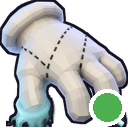
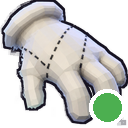
fix(brand): clear mist pixels inside the glove crop
Cyan mist overlapping the glove rectangle was enlarged with the glove and left a wrist trail on the toolbar icon.

diff --git a/docs/brand/scripts/pack-icons.py b/docs/brand/scripts/pack-icons.py
@@ -107,6 +107,45 @@ def glove_bbox(
     return (min_x, min_y, max_x, max_y)
 
 
+def is_cyan_mist(r: int, g: int, b: int, a: int) -> bool:
+    """Wrist mist is cyan. The bone glove is not.
+
+    Green and blue both sit above red. Cool glove highlights lift blue
+    while green stays near red, so those pixels stay. Dark tendrils and
+    faint specks keep the same bias with smaller gaps.
+    """
+    if a < 8 or g < r or b <= r:
+        return False
+    gap_g = g - r
+    gap_b = b - r
+    lum = (r + g + b) / 3
+    if gap_g >= 18 and gap_b >= 24:
+        return True
+    if lum < 130 and gap_g >= 6 and gap_b >= 10:
+        if gap_g / max(r, 1) >= 0.15 and gap_b / max(r, 1) >= 0.22:
+            return True
+    if lum < 55 and gap_g >= 4 and gap_b >= 6:
+        return True
+    return False
+
+
+def clear_mist_in_bbox(im: Image.Image, box: tuple[int, int, int, int]) -> Image.Image:
+    """Drop cyan mist that overlaps the glove rectangle.
+
+    The rectangle still contains mist wrapped around the cuff. Leaving
+    those pixels in the crop enlarges them into a wrist trail.
+    """
+    out = im.copy()
+    px = out.load()
+    x0, y0, x1, y1 = box
+    for y in range(y0, y1):
+        for x in range(x0, x1):
+            r, g, b, a = px[x, y]
+            if is_cyan_mist(r, g, b, a):
+                px[x, y] = (0, 0, 0, 0)
+    return out
+
+
 def with_outline(src: Image.Image, width: int) -> Image.Image:
     """Dark silhouette ring so a bone-white mark reads on a light toolbar."""
     if width <= 0:
@@ -142,7 +181,8 @@ def add_status_dot(icon: Image.Image, size: int) -> Image.Image:
 
 def transparent_icon(glove: Image.Image, size: int, status_dot: bool) -> Image.Image:
     """Glove fills the square. The status dot is painted on top and may cover it."""
-    cropped = glove.crop(glove_bbox(glove))
+    box = glove_bbox(glove)
+    cropped = clear_mist_in_bbox(glove, box).crop(box)
     long_side = max(cropped.width, cropped.height)
     scale = size / long_side
     new_w = max(1, round(cropped.width * scale))
